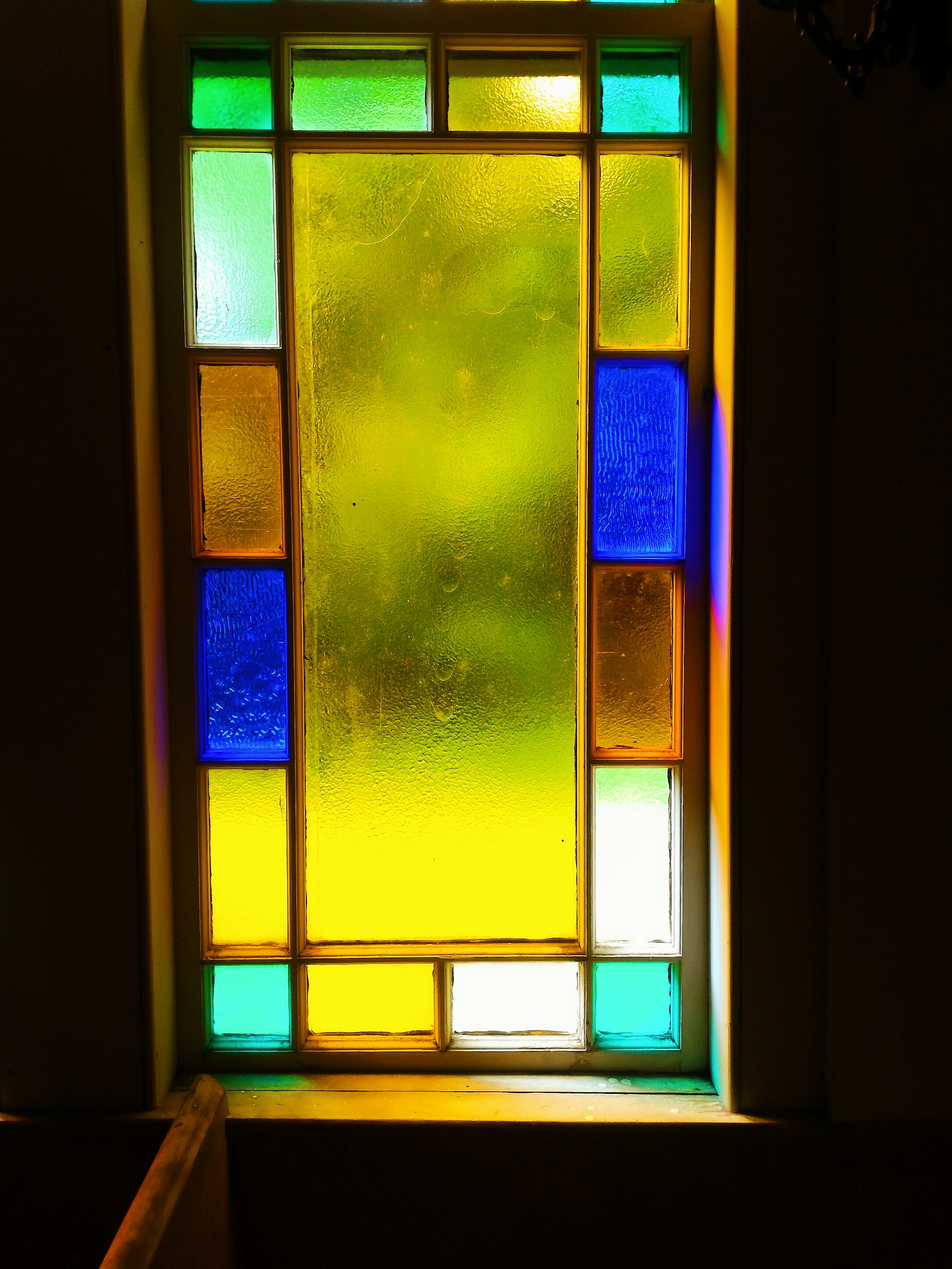
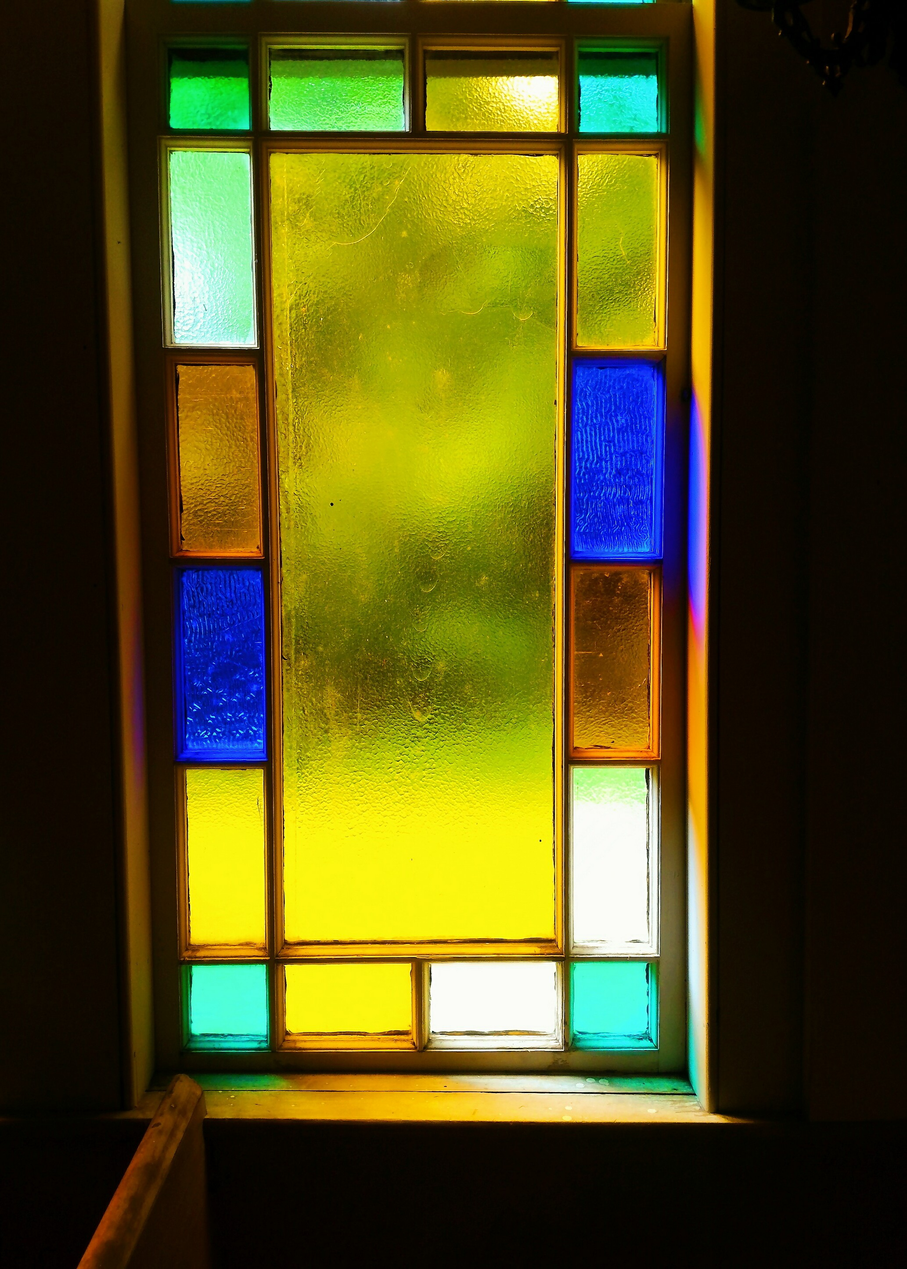
updated new image

Changed region(s): [[0.062, 0.0, 0.8364, 1.0], [0.9293, 0.0, 0.9603, 0.0311], [0.0, 0.8714, 0.031, 0.9025]]

diff --git a/gallery.html b/gallery.html
@@ -104,7 +104,7 @@ About </b></A> &nbsp; |  &nbsp;<A href="index.html"><b>Home</b></A></SPAN>
 
 <BR><a class="studio" href="images/popham-winter.jpg" data-lightbox="studio" data-title=""><img class="studio" width="28%" src="images/popham-winter.jpg" alt=""/></a>&nbsp; &nbsp; &nbsp;
 
-<a class="studio" href="images/stain-glass-lg.jpg" data-lightbox="studio" data-title=""><img class="studio" width="28%" src="images/stain-glass-sm.jpg" alt=""/></a>&nbsp; &nbsp; &nbsp;
+<a class="studio" href="images/stain-glass-lg.jpg" data-lightbox="studio" data-title=""><img class="studio" width="15%" src="images/stain-glass-lg.jpg" alt=""/></a>&nbsp; &nbsp; &nbsp;
 
 <a class= "studio" href= "images/banana.jpg" data-lightbox= "studio" data-title= ""><img class= "studio" width= "28%" src= "images/banana.jpg" alt= ""/></a>
 </DIV>
